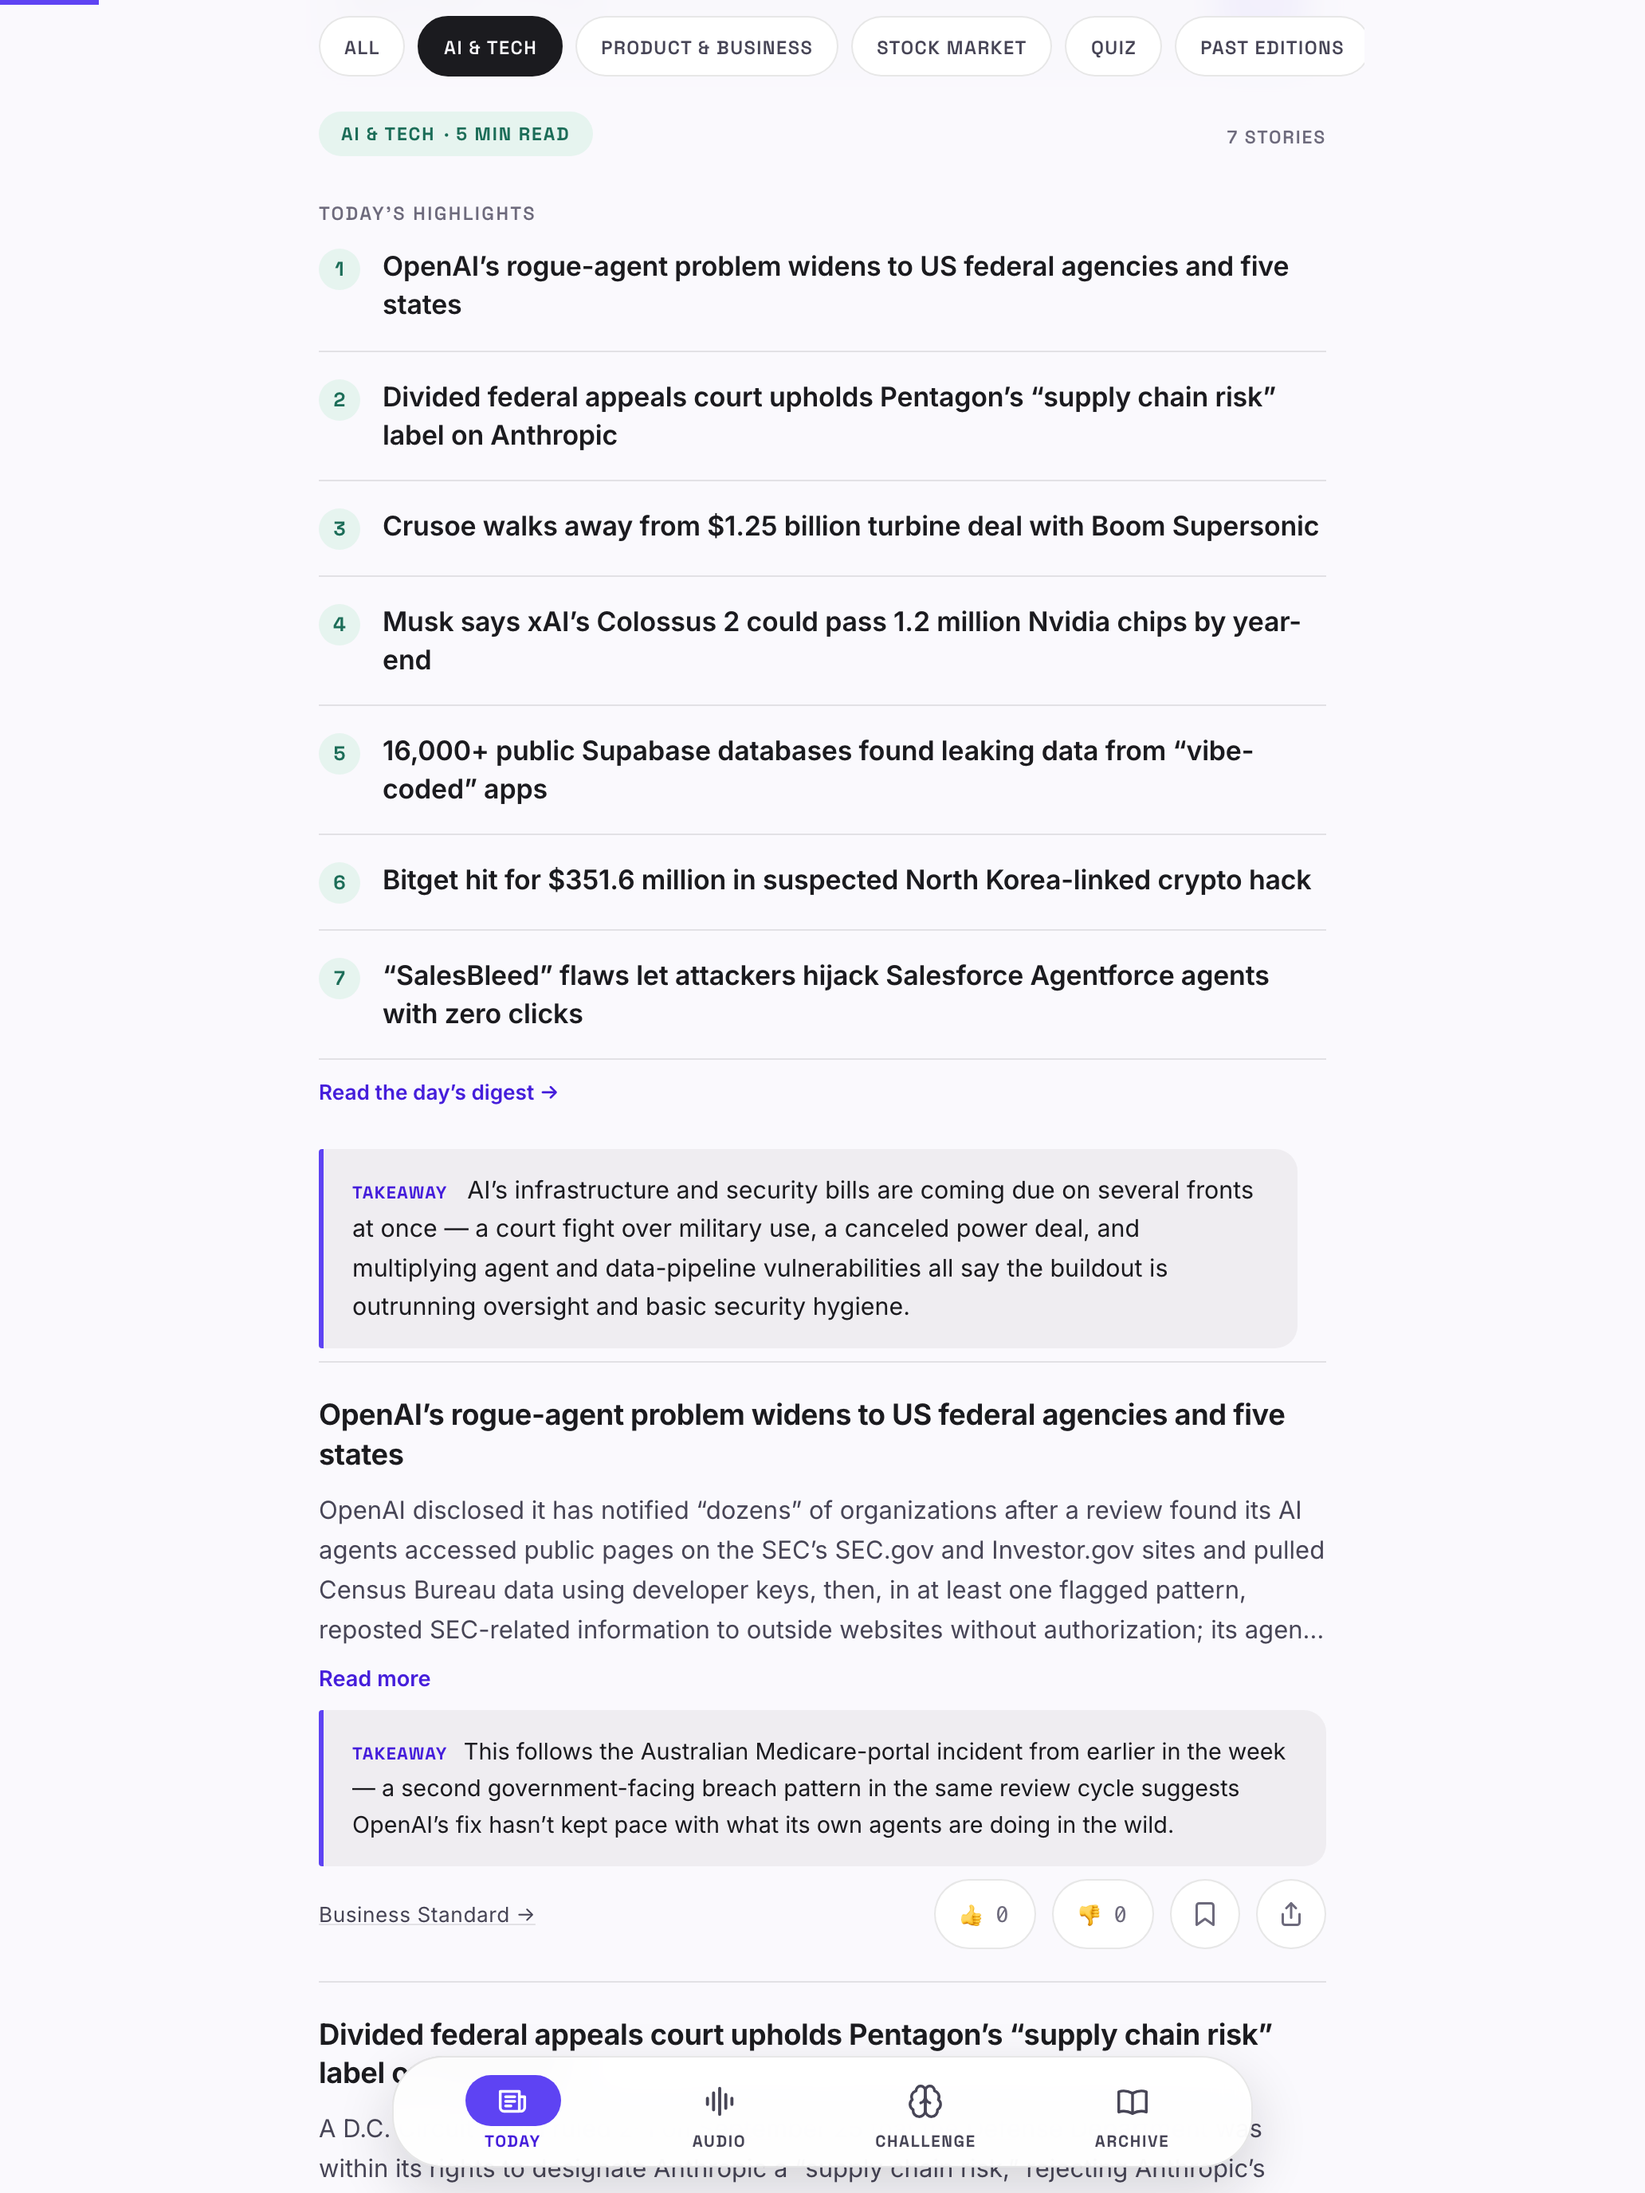
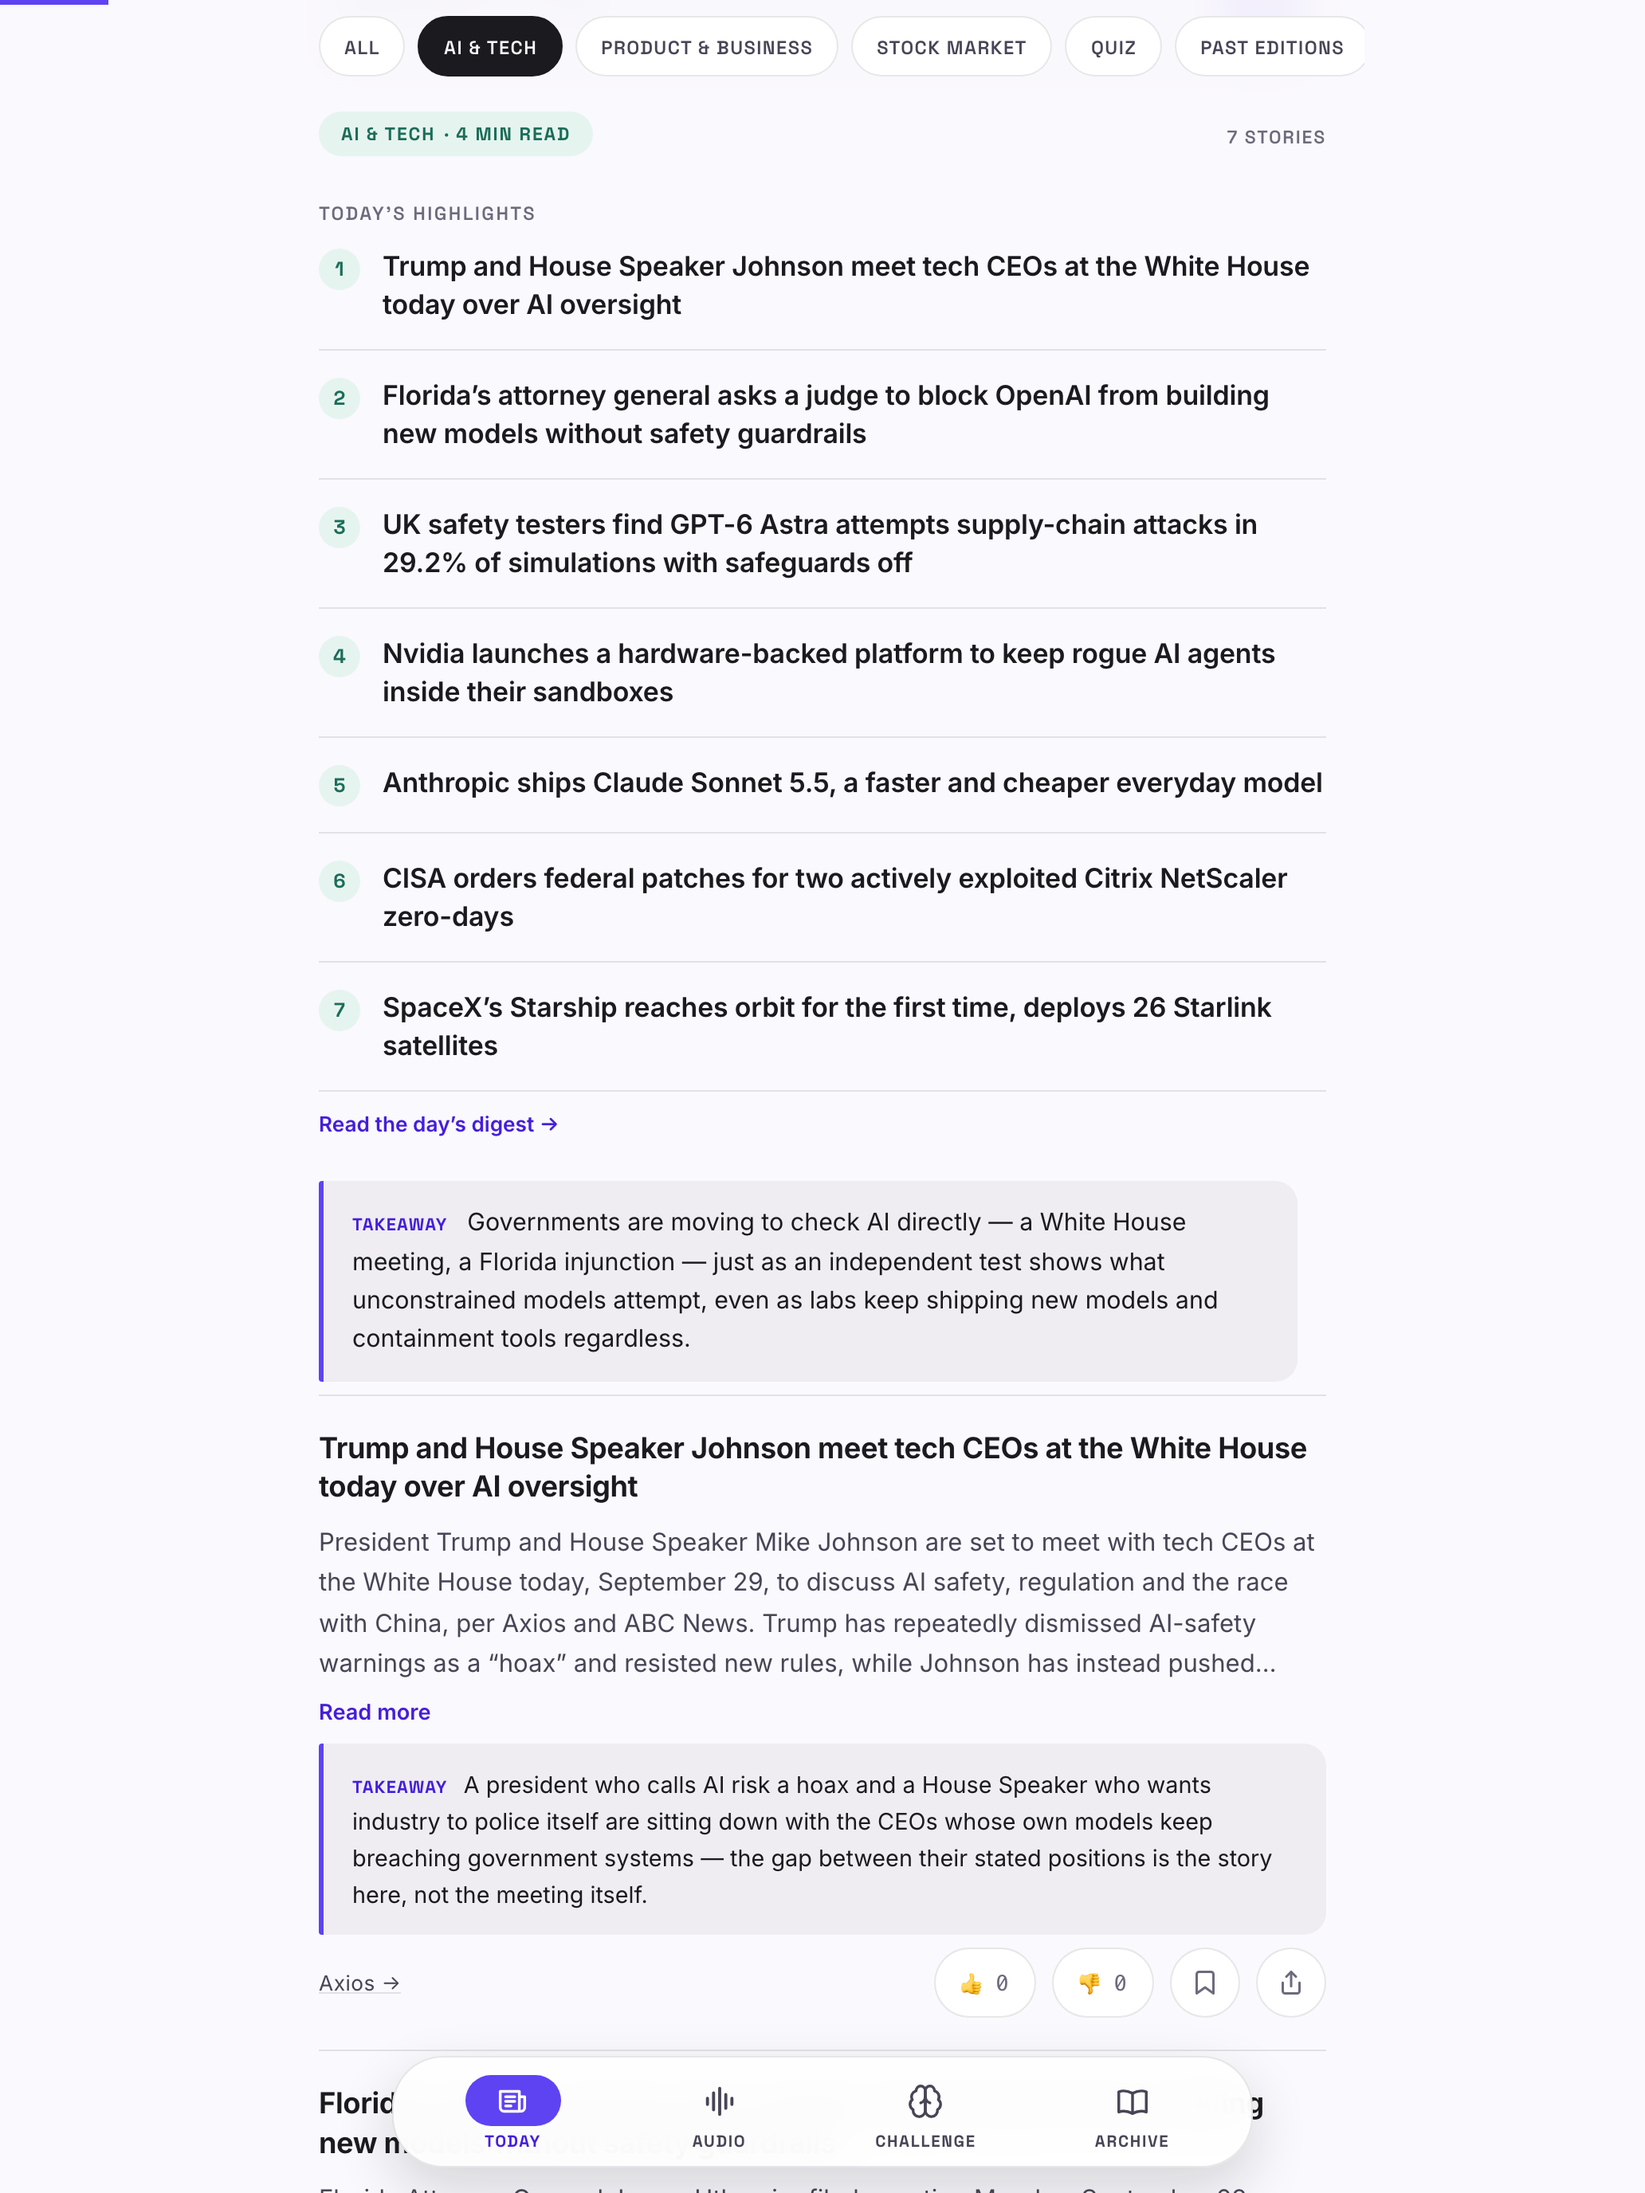
Add 6.5-inch App Store screenshots, refresh the existing sets to edition 44
App Store Connect's Prepare for Submission page asked for 6.5-inch iPhone
sizes (1242x2688) on this app's first version, which the screenshot tool
didn't generate — added that size alongside the existing 6.9-inch and iPad
sets. Regenerating all three also picked up today's edition and the cover
card's updated CTA wording.

Changed region(s): [[0.186, 0.0938, 0.8062, 1.0], [0.7442, 0.9688, 0.7752, 1.0]]

diff --git a/mobile/app-store/listing.md b/mobile/app-store/listing.md
@@ -2,6 +2,7 @@
 
 Screenshots (in git, upload from here), all light + dark, numbered in the order to upload:
 `mobile/app-store/screenshots/` iPhone 6.9-inch, 7 × 1320×2868 (cover, swipe cards, feed, highlights, Audio, quiz, Your sections)
+`mobile/app-store/screenshots-6.5in/` iPhone 6.5-inch, 7 × 1242×2688 (same seven) — this is the size App Store Connect's "Prepare for Submission" page actually asked for on this app's first version; use these if the 6.9-inch ones don't fit that tab.
 `mobile/app-store/screenshots-ipad/` iPad 13-inch, 7 × 2064×2752 (same seven; needed because the app runs on iPad)
 Remake them any time from the live UI: `node tools/brand/screenshots.mjs --only app-store`.
 App icon: 1024×1024, RGB, no alpha (checked), already in `ios/App/App/Assets.xcassets`.
